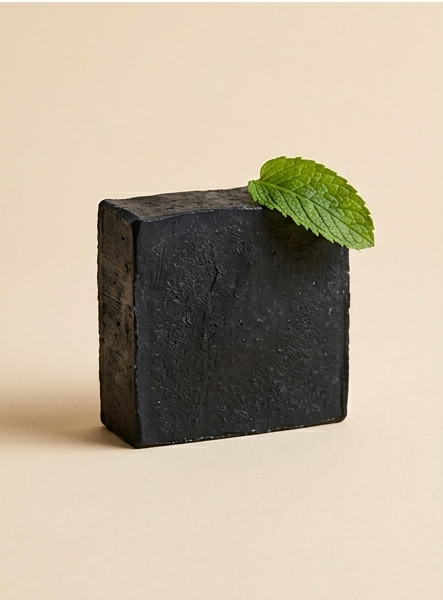
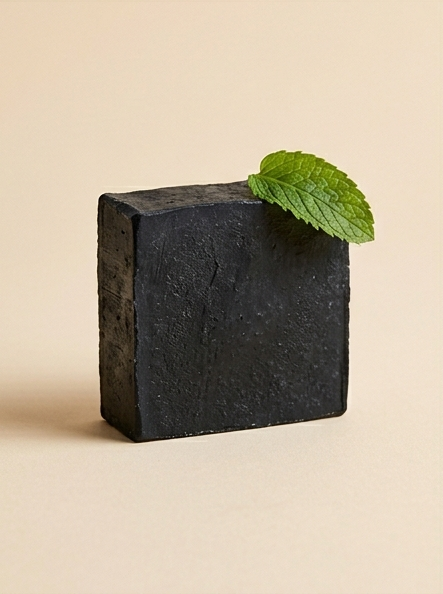
atualizado css pagina loja

diff --git a/lumiere-atelie/loja.html b/lumiere-atelie/loja.html
@@ -41,98 +41,176 @@
         <section class="velas">
             <h2>Velas</h2>
 
-            <div>
-               <img src="imagens/nuit-de-figuier.png" alt="Vela Nuit de Figuier" title="Vela Nuit de Figuier">
-               <h3>Nuit de Figuier</h3>
-               <p>Figo maduro, cedro, almíscar branco</p>
-               <p>200g · queima aprox. 45h</p>
-               <p>R$ 89,00</p>
+            <div class="produto-card">
+               <div class="produto-imagens">
+                    <img src="imagens/nuit-de-figuier.png" alt="Vela Nuit de Figuier" title="Vela Nuit de Figuier">
+                    <div class="dots">
+                        <span class="dot ativa"></span>
+                        <span class="dot"></span>
+                        <span class="dot"></span>
+                    </div>
+                </div>
+               <div class="produto-info">
+                   <h3>Nuit de Figuier</h3>
+                   <p class="produto-notas">Figo maduro, cedro, almíscar branco</p>
+                   <p class="produto-detalhes">200g · queima aprox. 45h</p>
+                   <p class="produto-preco">R$ 89,00</p>
+               </div>
             </div>
 
-            <div>
-                <img src="imagens/eau-de-pluie.png" alt="Vela Eau de Pluie" title="Vela Eau de Pluie">
-                <h3>Eau de Pluie</h3>
-                <p>Petrichor, musgo, linho fresco</p>
-                <p>180g · queima aprox. 40h</p>
-                <p>R$ 85,00</p>
+            <div class="produto-card">
+                <div class="produto-imagens">
+                    <img src="imagens/eau-de-pluie.png" alt="Vela Eau de Pluie" title="Vela Eau de Pluie">
+                    <div class="dots">
+                        <span class="dot ativa"></span>
+                        <span class="dot"></span>
+                        <span class="dot"></span>
+                    </div>
+                </div>
+                <div class="produto-info">
+                    <h3>Eau de Pluie</h3>
+                    <p class="produto-notas">Petrichor, musgo, linho fresco</p>
+                    <p class="produto-detalhes">180g · queima aprox. 40h</p>
+                    <p class="produto-preco">R$ 85,00</p>
+                </div>
             </div>
 
-            <div>
-                <img src="imagens/tabac-e-miel.png" alt="Vela Tabac & Miel" title="Vela Tabac & Miel">
-                <h3>Tabac & Miel</h3>
-                <p>Tabaco suave, mel, baunilha</p>
-                <p>200g · queima aprox. 45h</p>
-                <p>R$ 89,00</p>
+            <div class="produto-card">
+                <div class="produto-imagens">
+                    <img src="imagens/tabac-e-miel.png" alt="Vela Tabac & Miel" title="Vela Tabac & Miel">
+                    <div class="dots">
+                        <span class="dot ativa"></span>
+                        <span class="dot"></span>
+                        <span class="dot"></span>
+                    </div>
+                </div>
+                <div class="produto-info">
+                    <h3>Tabac & Miel</h3>
+                    <p class="produto-notas">Tabaco suave, mel, baunilha</p>
+                    <p class="produto-detalhes">200g · queima aprox. 45h</p>
+                    <p class="produto-preco">R$ 89,00</p>
+                </div>
             </div>
 
-            <div>
-                <img src="imagens/fleur-sauvage.png" alt="Vela Fleur Sauvage" title="Vela Fleur Sauvage">
-                <h3>Fleur Sauvage</h3>
-                <p>Peônia, rosa branca, íris</p>
-                <p>160g · queima aprox. 35h · <em>edição limitada</em></p>
-                <p>R$ 79,00</p>
+            <div class="produto-card">
+                <div class="produto-imagens">
+                    <img src="imagens/fleur-sauvage.png" alt="Vela Fleur Sauvage" title="Vela Fleur Sauvage">
+                    <div class="dots">
+                        <span class="dot ativa"></span>
+                        <span class="dot"></span>
+                        <span class="dot"></span>
+                    </div>
+                </div>
+                <div class="produto-info">
+                    <h3>Fleur Sauvage</h3>
+                    <p class="produto-notas">Peônia, rosa branca, íris</p>
+                    <p class="produto-detalhes">160g · queima aprox. 35h · <em>edição limitada</em></p>
+                    <p class="produto-preco">R$ 79,00</p>
+                </div>
             </div>
         </section>
 
         <section class="sabonetes">
             <h2>Sabonetes</h2>
-            <div>
-                <img src="imagens/argila-rosada.png" alt="Sabonete Mousse de Argila Rosada" title="Sabonete Mousse de Argila Rosada">
-                <h3>Mousse de Argila Rosada</h3>
-                <p>Argila rosada, rosa mosqueta, lavanda</p>
-                <p>110g · cura 4 semanas</p>
-                <p>R$ 34,00</p>
+            <div class="produto-card">
+                <div class="produto-imagens">
+                    <img src="imagens/argila-rosada.png" alt="Sabonete Mousse de Argila Rosada" title="Sabonete Mousse de Argila Rosada">
+                    <div class="dots">
+                        <span class="dot ativa"></span>
+                        <span class="dot"></span>
+                        <span class="dot"></span>
+                    </div>
+                </div>
+                <div class="produto-info">
+                    <h3>Mousse de Argila Rosada</h3>
+                    <p class="produto-notas">Argila rosada, rosa mosqueta, lavanda</p>
+                    <p class="produto-detalhes">110g · cura 4 semanas</p>
+                    <p class="produto-preco">R$ 34,00</p>
+                </div>
             </div>
 
-            <div>
-                <img src="imagens/aveia-e-mel.png" alt="Sabonete Aveia & Mel" title="Sabonete Aveia & Mel">
-                <h3>Aveia & Mel</h3>
-                <p>Aveia moída, mel silvestre, manteiga de karité</p>
-                <p>100g · cura 4 semanas</p>
-                <p>R$ 32,00</p>
+            <div class="produto-card">
+                <div class="produto-imagens">
+                    <img src="imagens/aveia-e-mel.png" alt="Sabonete Aveia & Mel" title="Sabonete Aveia & Mel">
+                    <div class="dots">
+                        <span class="dot ativa"></span>
+                        <span class="dot"></span>
+                        <span class="dot"></span>
+                    </div>
+                </div>
+                <div class="produto-info">
+                    <h3>Aveia & Mel</h3>
+                    <p class="produto-notas">Aveia moída, mel silvestre, manteiga de karité</p>
+                    <p class="produto-detalhes">100g · cura 4 semanas</p>
+                    <p class="produto-preco">R$ 32,00</p>
+                </div>
             </div>
 
-            <div>
-                <img src="imagens/carvao-e-hortela.png" alt="Sabonete Carvão Ativado + Hortelã" title="Sabonete Carvão Ativado + Hortelã">
-                <h3>Carvão Ativado + Hortelã</h3>
-                <p>Desintoxicante, refrescante</p>
-                <p>100g · cura 4 semanas</p>
-                <p>R$ 32,00</p>
+            <div class="produto-card">
+                <div class="produto-imagens">
+                    <img src="imagens/carvao-e-hortela.png" alt="Sabonete Carvão Ativado + Hortelã" title="Sabonete Carvão Ativado + Hortelã">
+                    <div class="dots">
+                        <span class="dot ativa"></span>
+                        <span class="dot"></span>
+                        <span class="dot"></span>
+                    </div>
+                </div>
+                <div class="produto-info">
+                    <h3>Carvão Ativado + Hortelã</h3>
+                    <p class="produto-notas">Desintoxicante, refrescante</p>
+                    <p class="produto-detalhes">100g · cura 4 semanas</p>
+                    <p class="produto-preco">R$ 32,00</p>
+                </div>
             </div>
 
-            <div>
-                <img src="imagens/coco-e-ylang.png" alt="Sabonete Leite de Coco e Ylang-ylang" title="Sabonete Leite de Coco e Ylang-ylang">
-                <h3>Leite de Coco e Ylang-ylang</h3>
-                <p>Hidratante, levemente floral</p>
-                <p>110g · cura 4 semanas</p>
-                <p>R$ 34,00</p>
+            <div class="produto-card">
+                <div class="produto-imagens">
+                    <img src="imagens/coco-e-ylang.png" alt="Sabonete Leite de Coco e Ylang-ylang" title="Sabonete Leite de Coco e Ylang-ylang">
+                    <div class="dots">
+                        <span class="dot ativa"></span>
+                        <span class="dot"></span>
+                        <span class="dot"></span>
+                    </div>
+                </div>
+                <div class="produto-info">
+                    <h3>Leite de Coco e Ylang-ylang</h3>
+                    <p class="produto-notas">Hidratante, levemente floral</p>
+                    <p class="produto-detalhes">110g · cura 4 semanas</p>
+                    <p class="produto-preco">R$ 34,00</p>
+                </div>
             </div>
         </section>
 
         <section class="kits">
             <h2>Kits</h2>
-            <div>
+            <div class="produto-card">
                 <img src="imagens/kit-ritual-da-manha.png" alt="Kit Ritual da Manhã" title="Kit Ritual da Manhã com caixa de presente decorada e produtos selecionados">
-                <h3>Kit Ritual da Manhã</h3>
-                <p>Vela Eau de Pluie (mini) + Sabonete Aveia & Mel</p>
-                <p>Em caixa presente com fita</p>
-                <p>R$ 98,00</p>
+                <div class="produto-info">
+                    <h3>Kit Ritual da Manhã</h3>
+                    <p class="produto-notas">Vela Eau de Pluie (mini) + Sabonete Aveia & Mel</p>
+                    <p class="produto-detalhes">Em caixa presente com fita</p>
+                    <p class="produto-preco">R$ 98,00</p>
+                </div>
             </div>
 
-            <div>
+            <div class="produto-card">
                 <img src="imagens/kit-para-ela.png" alt="Kit Para Ela" title="Kit Para Ela com caixa de presente, cartão e produtos selecionados">
-                <h3>Kit Para Ela</h3>
-                <p>Vela Fleur Sauvage + Sabonete Argila Rosada + cartão escrito à mão</p>
-                <p>Em caixa presente com fita</p>
-                <p>R$ 119,00</p>
+                <div class="produto-info">
+                    <h3>Kit Para Ela</h3>
+                    <p class="produto-notas">Vela Fleur Sauvage + Sabonete Argila Rosada + cartão escrito à mão</p>
+                    <p class="produto-detalhes">Em caixa presente com fita</p>
+                    <p class="produto-preco">R$ 119,00</p>
+                </div>
             </div>
 
-            <div>
+            <div class="produto-card">
                 <img src="imagens/kit-presenteavel-completo.png" alt="Kit Presenteável Completo" title="Kit Presenteável Completo com caixa presente e produtos selecionados">
-                <h3>Kit Presenteável Completo</h3>
-                <p>Vela 200h à escolha + 2 sabonetes + saquinho seco de lavanda</p>
-                <p>Em caixa kraft com papel de seda</p>
-                <p>R$ 169,00</p>
+                <div class="produto-info">
+                    <h3>Kit Presenteável Completo</h3>
+                    <p class="produto-notas">Vela 200h à escolha + 2 sabonetes + saquinho seco de lavanda</p>
+                    <p class="produto-detalhes">Em caixa kraft com papel de seda</p>
+                    <p class="produto-preco">R$ 169,00</p>
+                </div>
             </div>
         </section>
     

diff --git a/lumiere-atelie/estilos/style.css b/lumiere-atelie/estilos/style.css
@@ -100,6 +100,7 @@ header.scrolled {
     opacity: 0.6;
 }
 
+/*página home*/
 .hero {
     background-image: 
     linear-gradient(to bottom, rgba(0, 0, 0, 0.25) 0%, transparent 40%),
@@ -347,10 +348,147 @@ div .preco-destaques {
   background-color: var(--cor-terracota);
   color: var(--cor-cacau);
 }
+/* "fim" página home*/
 
+/*página loja*/
+.colecao {
+    display: flex;
+    flex-direction: column;
+    align-items: center;
+    text-align: center;
+    padding: 120px 48px 80px;
+    gap: 16px;
+    border-bottom: 1px solid var(--cor-bege);
+}
 
+.colecao h2 {
+    font-family: var(--fonte-display);
+    font-size: 48px;
+    font-weight: 300;
+    letter-spacing: 3px;
+}
 
+.colecao h3 {
+    font-size: 15px;
+    font-weight: 300;
+    letter-spacing: 1px;
+    color: var(--cor-ambar);
+}
 
+.velas,
+.sabonetes,
+.kits {
+    padding: 80px 48px;
+    display: flex;
+    flex-direction: column;
+    gap: 48px;
+    max-width: 1200px;
+    margin: 0 auto;
+}
+
+.velas h2,
+.sabonetes h2,
+.kits h2 {
+    font-family: var(--fonte-display);
+    font-size: 36px;
+    font-weight: 300;
+    letter-spacing: 2px;
+    padding-bottom: 16px;
+    border-bottom: 1px solid var(--cor-bege);
+}
+
+.produto-card {
+    display: grid;
+    grid-template-columns: 300px 1fr;
+    gap: 48px;
+    align-items: center;
+}
+
+.produto-imagens {
+    position: relative;
+}
+
+.produto-imagens img {
+    width: 100%;
+    aspect-ratio: 1 / 1;
+    object-fit: cover;
+    display: block;
+}
+
+.dots {
+    position: absolute;
+    bottom: 12px;
+    left: 50%;
+    transform: translateX(-50%);
+    display: flex;
+    gap: 8px;
+}
+
+.dot {
+    width: 6px;
+    height: 6px;
+    border-radius: 50%;
+    background-color: rgba(255, 255, 255, 0.5);
+    cursor: pointer;
+    transition: background-color 0.3s ease;
+}
+
+.dot.ativa {
+    background-color: #fff;
+}
+
+.produto-info {
+    display: flex;
+    flex-direction: column;
+    gap: 8px;
+}
+
+.produto-info h3 {
+    font-family: var(--fonte-display);
+    font-size: 28px;
+    font-weight: 400;
+    letter-spacing: 1px;
+    margin-bottom: 8px;
+}
+
+.produto-notas {
+    font-size: 15px;
+    font-weight: 300;
+    color: var(--cor-ambar);
+    font-style: italic;
+}
+
+.produto-detalhes {
+    font-size: 13px;
+    font-weight: 300;
+    color: var(--cor-ambar);
+    opacity: 0.8;
+}
+
+.produto-preco {
+    font-family: var(--fonte-display);
+    font-size: 24px;
+    font-weight: 400;
+    color: var(--cor-cacau);
+    margin-top: 16px;
+}
+
+.kits .produto-card > img {
+    width: 300px;
+    aspect-ratio: 1 / 1;
+    object-fit: cover;
+    display: block;
+}
+
+.nota-reposicao {
+    background-color: var(--cor-bege);
+    text-align: center;
+    padding: 32px 48px;
+    font-size: 14px;
+    font-weight: 300;
+    letter-spacing: 0.5px;
+    color: var(--cor-cacau);
+}
 
 footer {
     background-color: var(--cor-cacau);